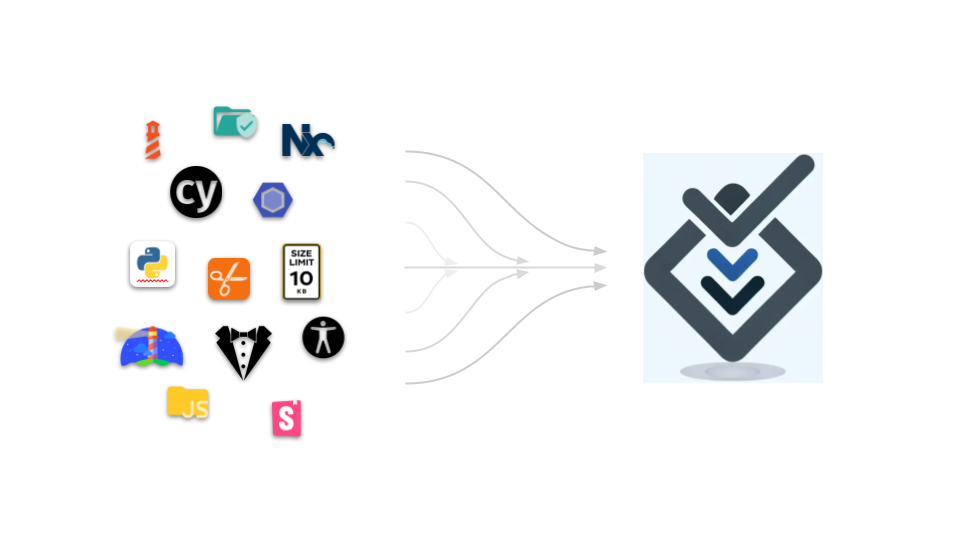
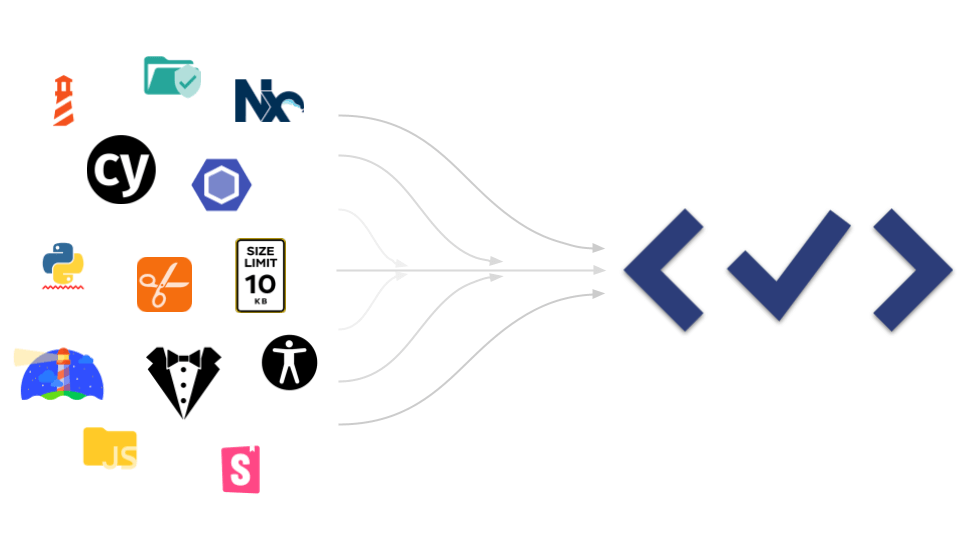
docs(cli): update portal and custom plugins pictures

diff --git a/README.md b/README.md
@@ -33,13 +33,13 @@ _We want to change that!_
 
 | [🚀 Get started](./packages/cli/README.md#getting-started)                                                                                                                                                                                  | [🤖 CI automation](https://github.com/marketplace/actions/code-pushup)                                                                                                                                                                       |
 | -------------------------------------------------------------------------------------------------------------------------------------------------------------------------------------------------------------------------------------------- | -------------------------------------------------------------------------------------------------------------------------------------------------------------------------------------------------------------------------------------------- |
-| <a href="./packages/cli/README.md#getting-started"><img alt="Getting started cover image" title="Getting started with code-pushup" src="packages/cli/docs/images/cli-terminal-overview.png" max-height="200" width="auto"></a>               | <a href="./packages/cli/README.md#-ci-automation"><img alt="CI Automation cover" title="CI automation guide" src="docs/images/gh-action.png" max-height="200" width="auto"></a>                                                              |
+| <a href="./packages/cli/README.md#getting-started"><img alt="Getting started cover image" title="Getting started with code-pushup" src="packages/cli/docs/images/cli-terminal-overview.png" width="1000"></a>                                | <a href="./packages/cli/README.md#-ci-automation"><img alt="CI Automation cover" title="CI automation guide" src="docs/images/gh-action.png" width="1000"></a>                                                                               |
 | <ul><li>Run **[📦 `@code-pushup/cli`](./packages/cli#readme)** to collect **reports**.</li><li>[Get started](./packages/cli/README.md#getting-started) quickly with our [**official plugins**](#-officially-supported-plugins)! ⏱</li></ul> | <ul><li>Easy **CI** setup with **[🤖 `code-pushup/github-action`](https://github.com/marketplace/actions/code-pushup)**.</li><li>Import logic from **[📦 `@code-pushup/core`](./packages/core#readme)** to craft **custom tools**.</li></ul> |
 
-| 📈 [Portal](https://code-pushup.dev#portal)                                                                                                                                                     | 🔌 [Custom plugins](./packages/cli/docs/custom-plugins.md)                                                                                                                                                                                                                    |
-| ------------------------------------------------------------------------------------------------------------------------------------------------------------------------------------------------ | ----------------------------------------------------------------------------------------------------------------------------------------------------------------------------------------------------------------------------------------------------------------------------- |
-| <a href="#portal-integration"><img alt="Portal integration cover image" title="Inetegrate code-pushup portal" src="packages/cli/docs/images/portal-cover.png" max-height="200" width="auto"></a> | <a href="#custom-plugins"><img alt="Custom plugins" title="Create custom code-pushup plugins" src="docs/images/code-pushup-custom-plugins.png" max-height="200" width="auto"></a>                                                                                             |
-| <ul><li>**[Portal](https://code-pushup.dev#portal)** 🌐 **visualizes reports** in a slick UI.</li><li>Track **historical data** from uploads. ⬆</li></ul>                                       | <ul><li>All the [data models](./packages/models/docs/models-reference.md) you need are provided in **[📦 `@code-pushup/models`](./packages/models/README.md)**.</li><li>Find tons of useful utilities in **[📦 `@code-pushup/utils`](./packages/utils/README.md)**.</li></ul> |
+| 📈 [Portal](https://code-pushup.dev#portal)                                                                                                                                    | 🔌 [Custom plugins](./packages/cli/docs/custom-plugins.md)                                                                                                                                                                                                                    |
+| ------------------------------------------------------------------------------------------------------------------------------------------------------------------------------- | ----------------------------------------------------------------------------------------------------------------------------------------------------------------------------------------------------------------------------------------------------------------------------- |
+| <a href="#portal-integration"><img alt="Portal integration cover image" title="Inetegrate code-pushup portal" src="packages/cli/docs/images/portal-cover.png" width="1000"></a> | <a href="#custom-plugins"><img alt="Custom plugins" title="Create custom code-pushup plugins" src="docs/images/code-pushup-custom-plugins.png" width="1000"></a>                                                                                                              |
+| <ul><li>**[Portal](https://code-pushup.dev#portal)** 🌐 **visualizes reports** in a slick UI.</li><li>Track **historical data** from uploads. ⬆</li></ul>                      | <ul><li>All the [data models](./packages/models/docs/models-reference.md) you need are provided in **[📦 `@code-pushup/models`](./packages/models/README.md)**.</li><li>Find tons of useful utilities in **[📦 `@code-pushup/utils`](./packages/utils/README.md)**.</li></ul> |
 
 ---
 
